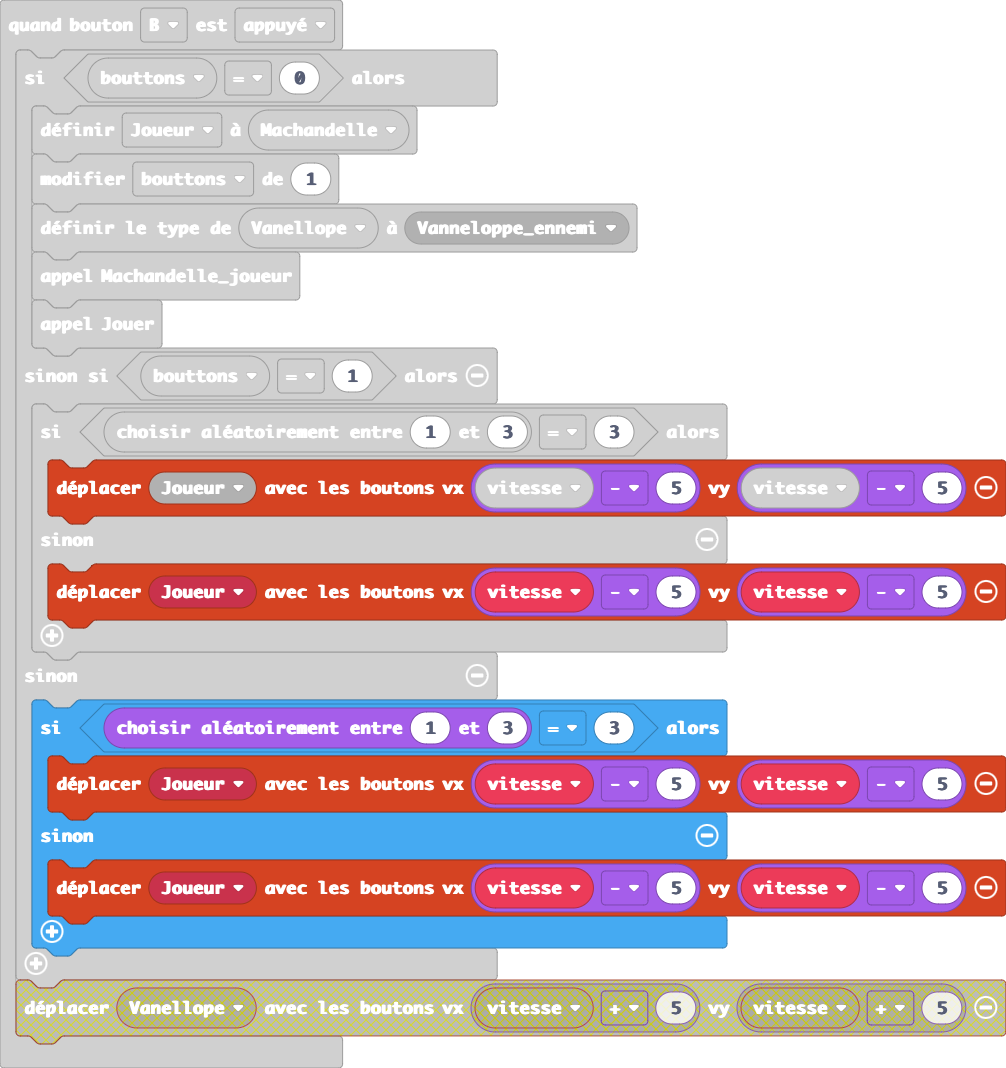
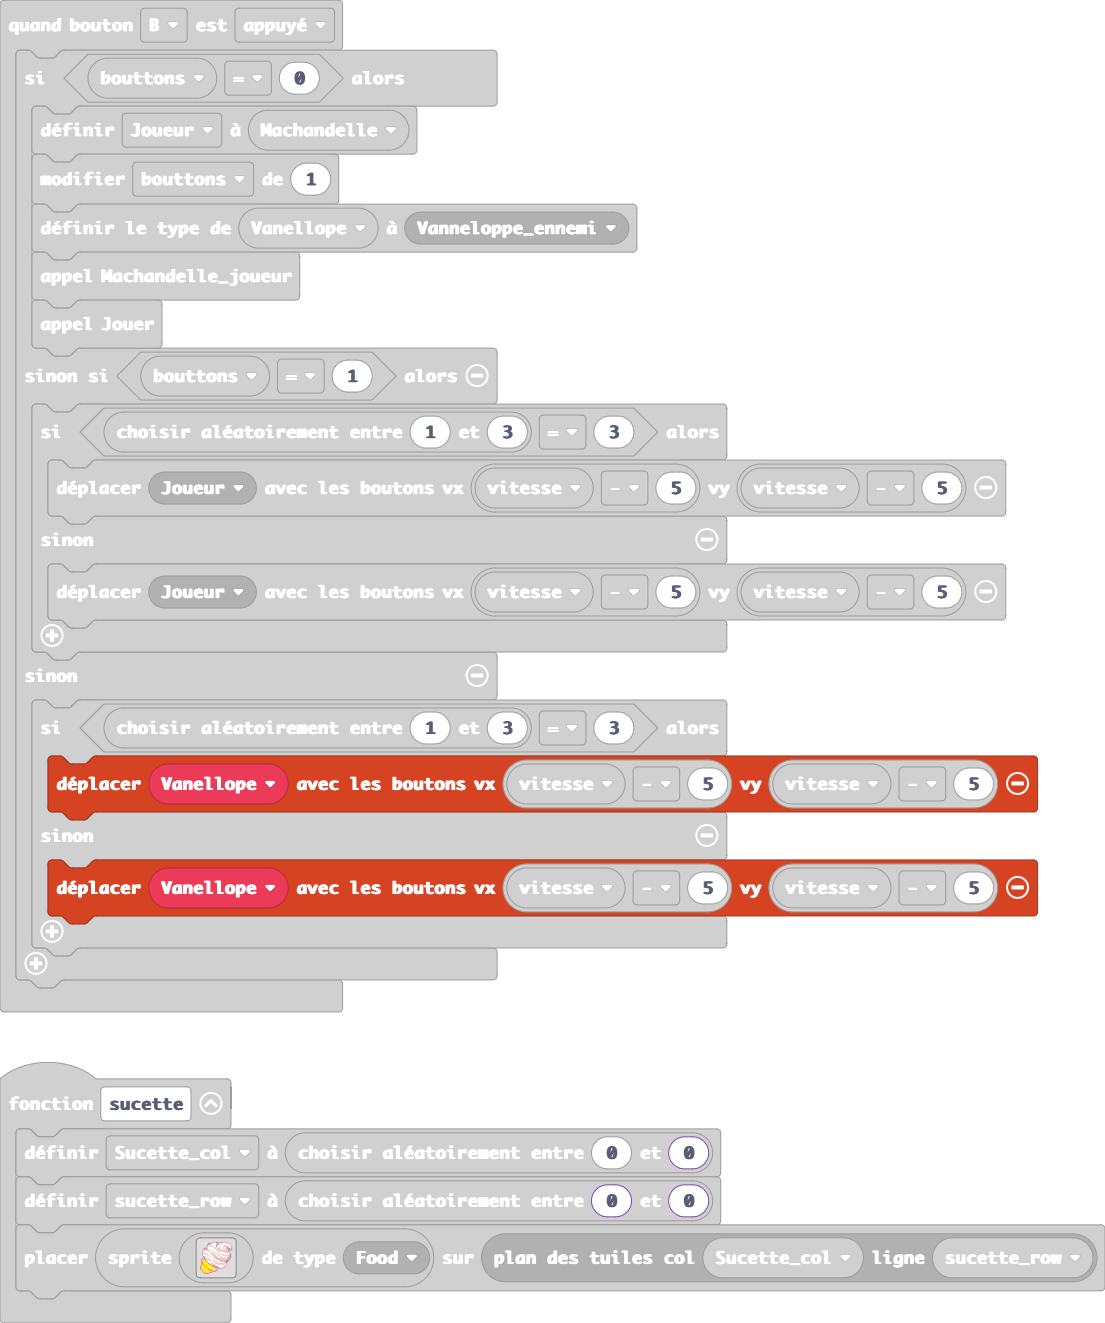
Mise à jour main.blocks, main.ts

diff --git a/main.ts b/main.ts
@@ -19,8 +19,8 @@ sprites.onOverlap(SpriteKind.ennemi, SpriteKind.Food, function (sprite, otherSpr
     sprite.setVelocity(50, 50)
 })
 function sucette () {
-    Sucette_col = randint(0, 15)
-    sucette_row = randint(2, 45)
+    Sucette_col = randint(0, 0)
+    sucette_row = randint(0, 0)
     tiles.placeOnTile(sprites.create(sprites.food.bigIceCream, SpriteKind.Food), tiles.getTileLocation(Sucette_col, sucette_row))
 }
 sprites.onOverlap(SpriteKind.Vanneloppe_joueur, SpriteKind.Food, function (sprite3, otherSprite2) {
@@ -163,9 +163,9 @@ controller.B.onEvent(ControllerButtonEvent.Pressed, function () {
         }
     } else {
         if (randint(1, 3) == 3) {
-            controller.moveSprite(Joueur, vitesse - 5, vitesse - 5)
+            controller.moveSprite(Vanellope, vitesse - 5, vitesse - 5)
         } else {
-            controller.moveSprite(Joueur, vitesse - 5, vitesse - 5)
+            controller.moveSprite(Vanellope, vitesse - 5, vitesse - 5)
         }
     }
 })
